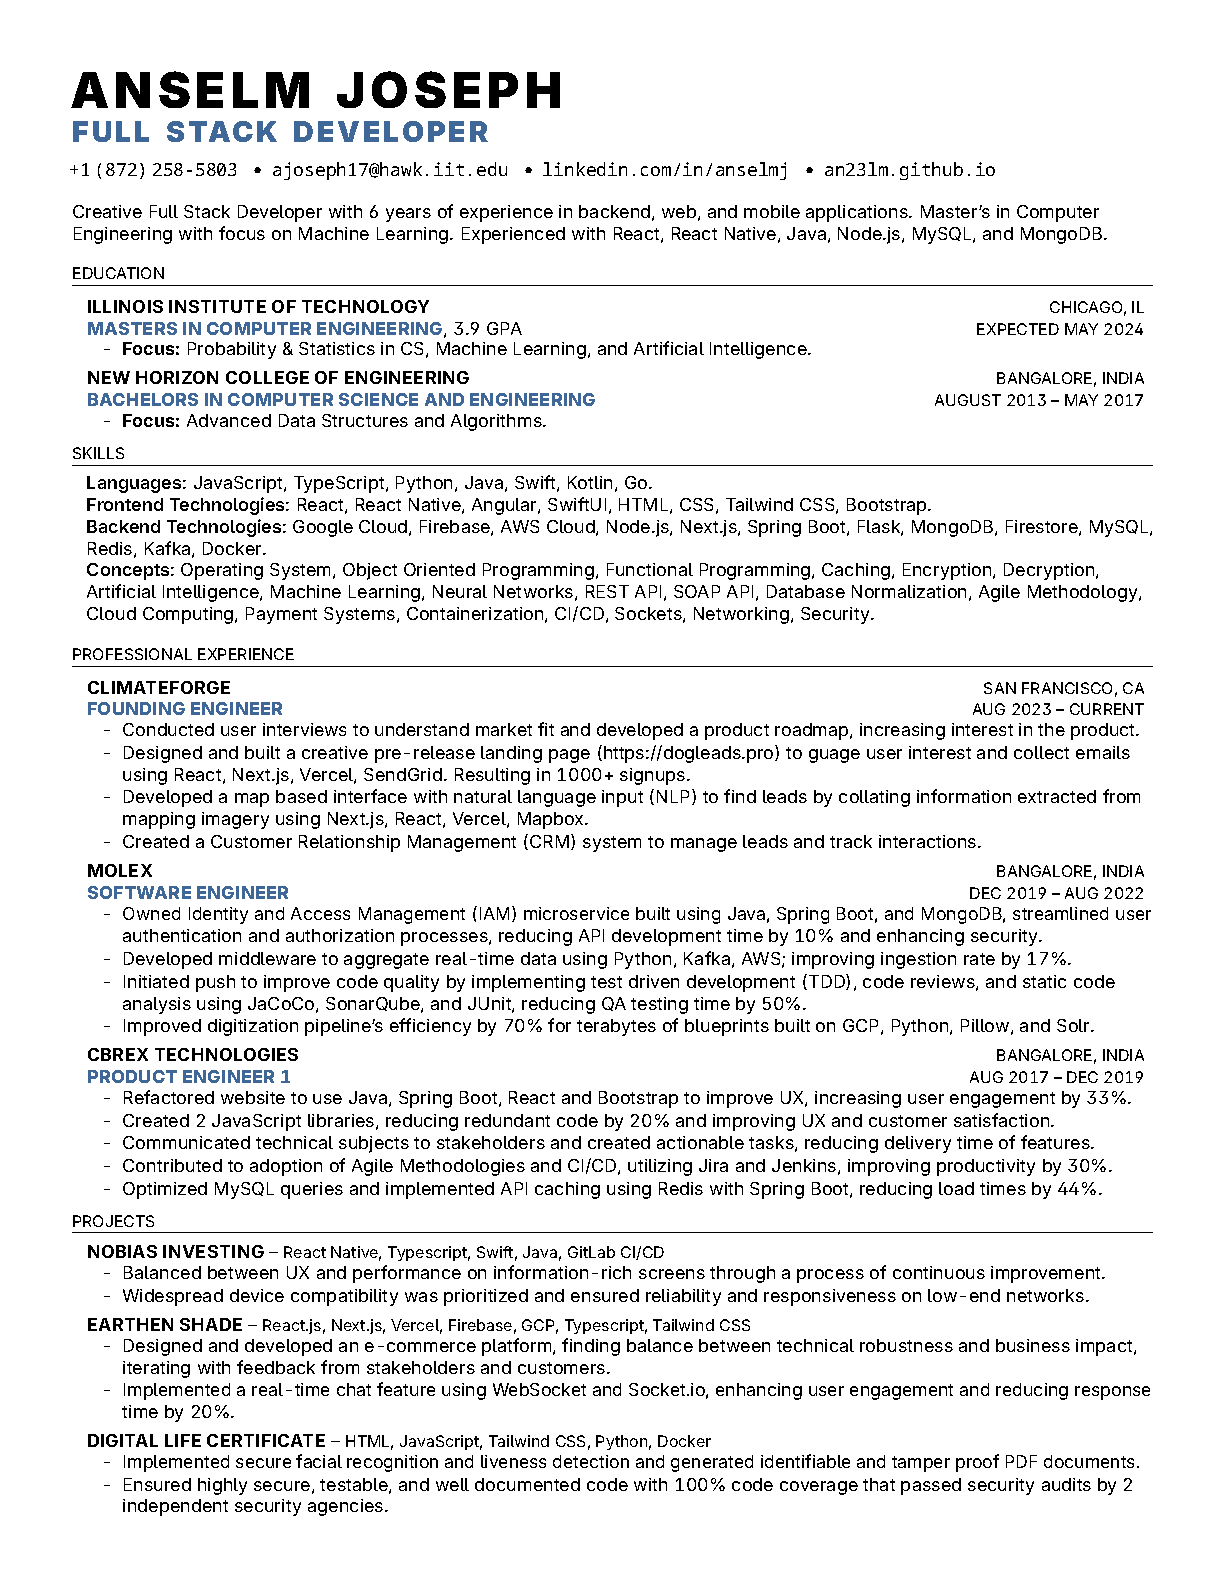
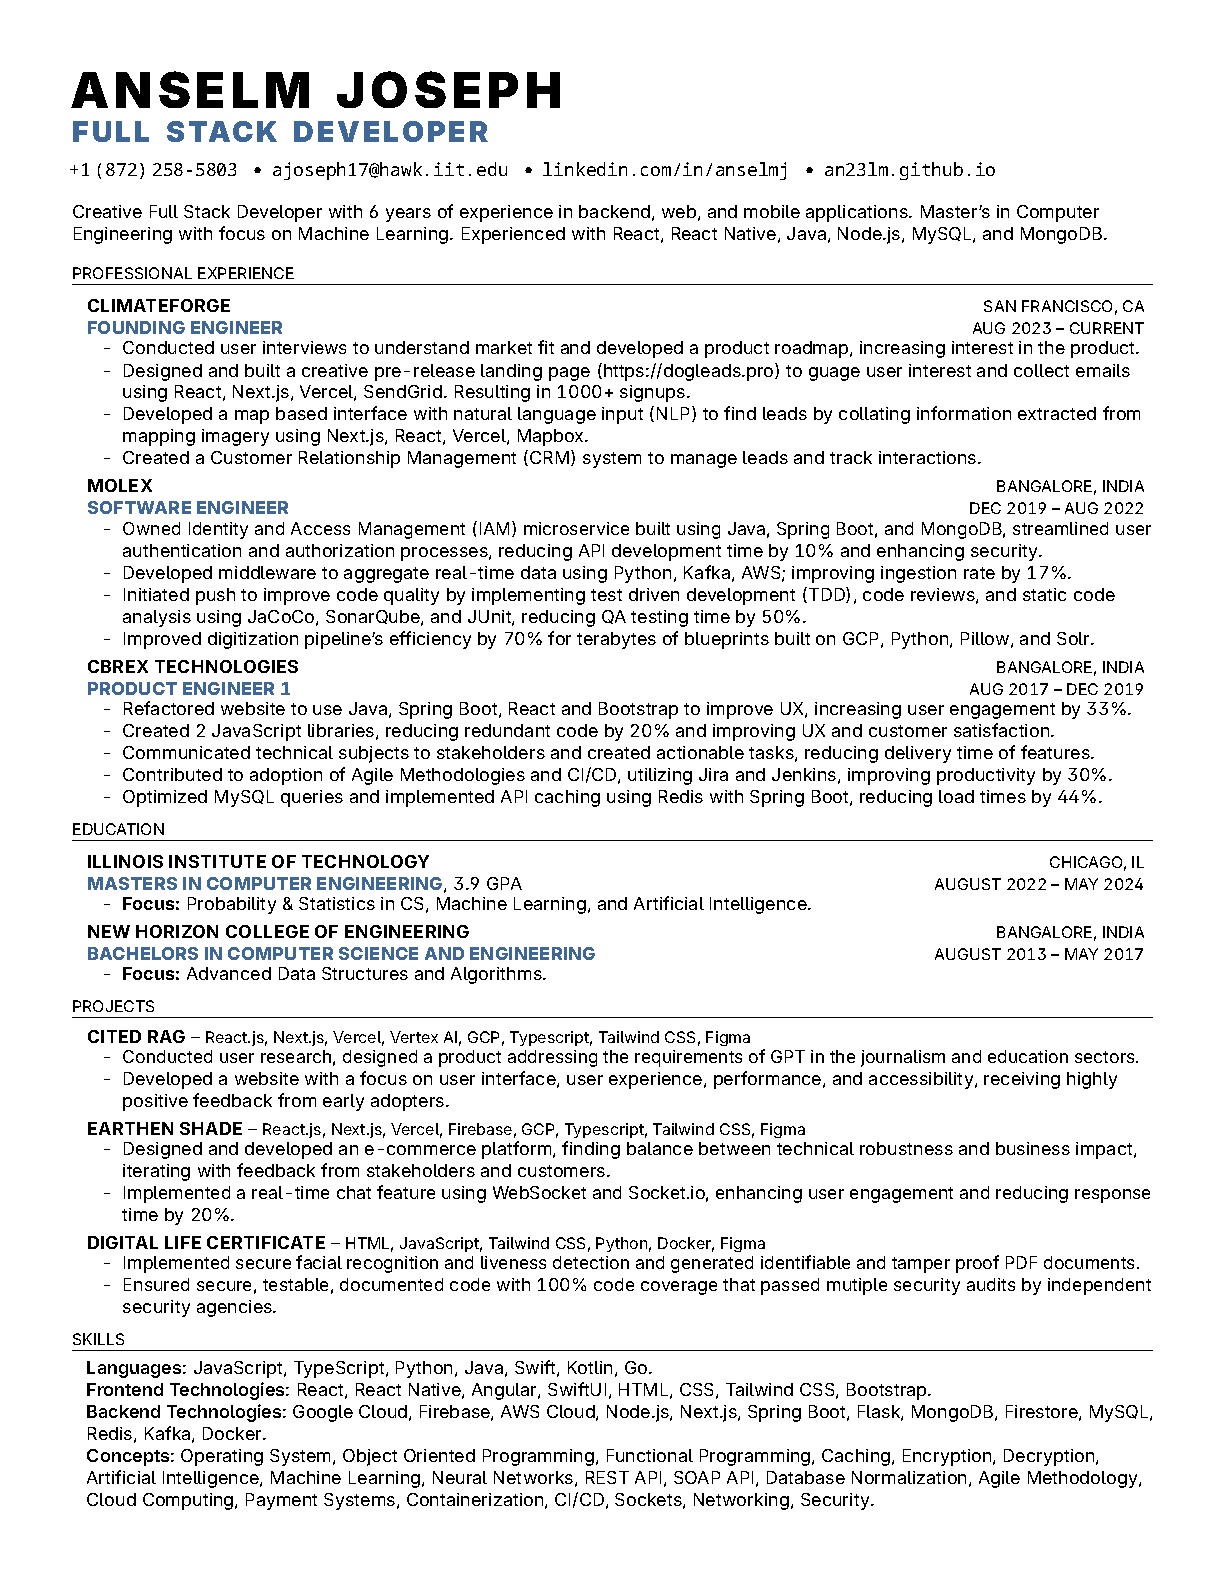
updated grad details

Changed region(s): [[0.0621, 0.1547, 0.9314, 0.959]]

diff --git a/components/projects.tex b/components/projects.tex
@@ -3,34 +3,32 @@
 
 \resumeSubHeadingListStart
 
+    \resumeProjectHeading
+    {Cited RAG} {React.js, Next.js, Vercel, Vertex AI, GCP, Typescript, Tailwind CSS, Figma}
+    \resumeItemListStart
+        \resumeItem{Conducted user research, designed a product addressing the requirements of GPT in the journalism and education sectors.}
+        \resumeItem{Developed a website with a focus on user interface, user experience, performance, and accessibility, receiving highly positive feedback from early adopters.}
+    \resumeItemListEnd
+
     % \resumeProjectHeading
-    % {DogLeads} {https://dogleads.pro -- React.js, Next.js, Vercel, MapBox, SendGrid, Typescript, AWS, Machine Learning}
+    % {NoBias Investing} {React Native, Typescript, Swift, Java, GitLab CI/CD}
     % \resumeItemListStart
-    %     \resumeItem{Conducted user interviews to understand market fit and developed a product roadmap, increasing interest in the product.}
-    %     \resumeItem{Designed and built a creative pre-release landing page to guage user interest resulting in 1000+ signups.}
-    %     \resumeItem{Developed a map based interface with natural language input (NLP) to find leads by collating information extracted from mapping imagery using Next.js, React, Vercel, Mapbox.}
-    %     \resumeItem{Created a Customer Relationship Management (CRM) system to manage leads and track interactions.}
+    %     \resumeItem{Balanced between UX and performance on information-rich screens through a process of continuous improvement.}
+    %     \resumeItem{Widespread device compatibility was prioritized and ensured reliability and responsiveness on low-end networks.}
     % \resumeItemListEnd
 
     \resumeProjectHeading
-    {NoBias Investing} {React Native, Typescript, Swift, Java, GitLab CI/CD}
-    \resumeItemListStart
-        \resumeItem{Balanced between UX and performance on information-rich screens through a process of continuous improvement.}
-        \resumeItem{Widespread device compatibility was prioritized and ensured reliability and responsiveness on low-end networks.}
-    \resumeItemListEnd
-
-    \resumeProjectHeading
-    {Earthen Shade} {React.js, Next.js, Vercel, Firebase, GCP, Typescript, Tailwind CSS}
+    {Earthen Shade} {React.js, Next.js, Vercel, Firebase, GCP, Typescript, Tailwind CSS, Figma}
     \resumeItemListStart
         \resumeItem {Designed and developed an e-commerce platform, finding balance between technical robustness and business impact, iterating with feedback from stakeholders and customers.}
         \resumeItem{Implemented a real-time chat feature using WebSocket and Socket.io, enhancing user engagement and reducing response time by 20\%.}
     \resumeItemListEnd
 
     \resumeProjectHeading
-    {Digital Life Certificate} {HTML, JavaScript, Tailwind CSS, Python, Docker}
+    {Digital Life Certificate} {HTML, JavaScript, Tailwind CSS, Python, Docker, Figma}
     \resumeItemListStart
         \resumeItem{Implemented secure facial recognition and liveness detection and generated identifiable and tamper proof PDF documents.}
-        \resumeItem{Ensured highly secure, testable, and well documented code with 100\% code coverage that passed security audits by 2 independent security agencies.}
+        \resumeItem{Ensured secure, testable, documented code with 100\% code coverage that passed mutiple security audits by independent security agencies.}
     \resumeItemListEnd
 
 \resumeSubHeadingListEnd

diff --git a/components/education.tex b/components/education.tex
@@ -5,7 +5,7 @@
 
         \resumeSubheading
         {Illinois Institute of Technology}{Chicago, IL}
-        {Masters in Computer Engineering}{, 3.9 GPA}{Expected May 2024}
+        {Masters in Computer Engineering}{, 3.9 GPA}{August 2022 -- May 2024}
         \resumeItemListStart
             \resumeItem{\textbf{Focus:}  Probability \& Statistics in CS, Machine Learning, and Artificial Intelligence.}
         \resumeItemListEnd

diff --git a/resume.tex b/resume.tex
@@ -10,14 +10,13 @@
     \begin{document}
 
         \input{components/heading}
+    
+        \input{components/experience}
 
         \input{components/education}
 
-        \input{components/skills}
-
-        \input{components/experience}
-
         \input{components/projects}
 
-
+        \input{components/skills}
+    
     \end{document}
